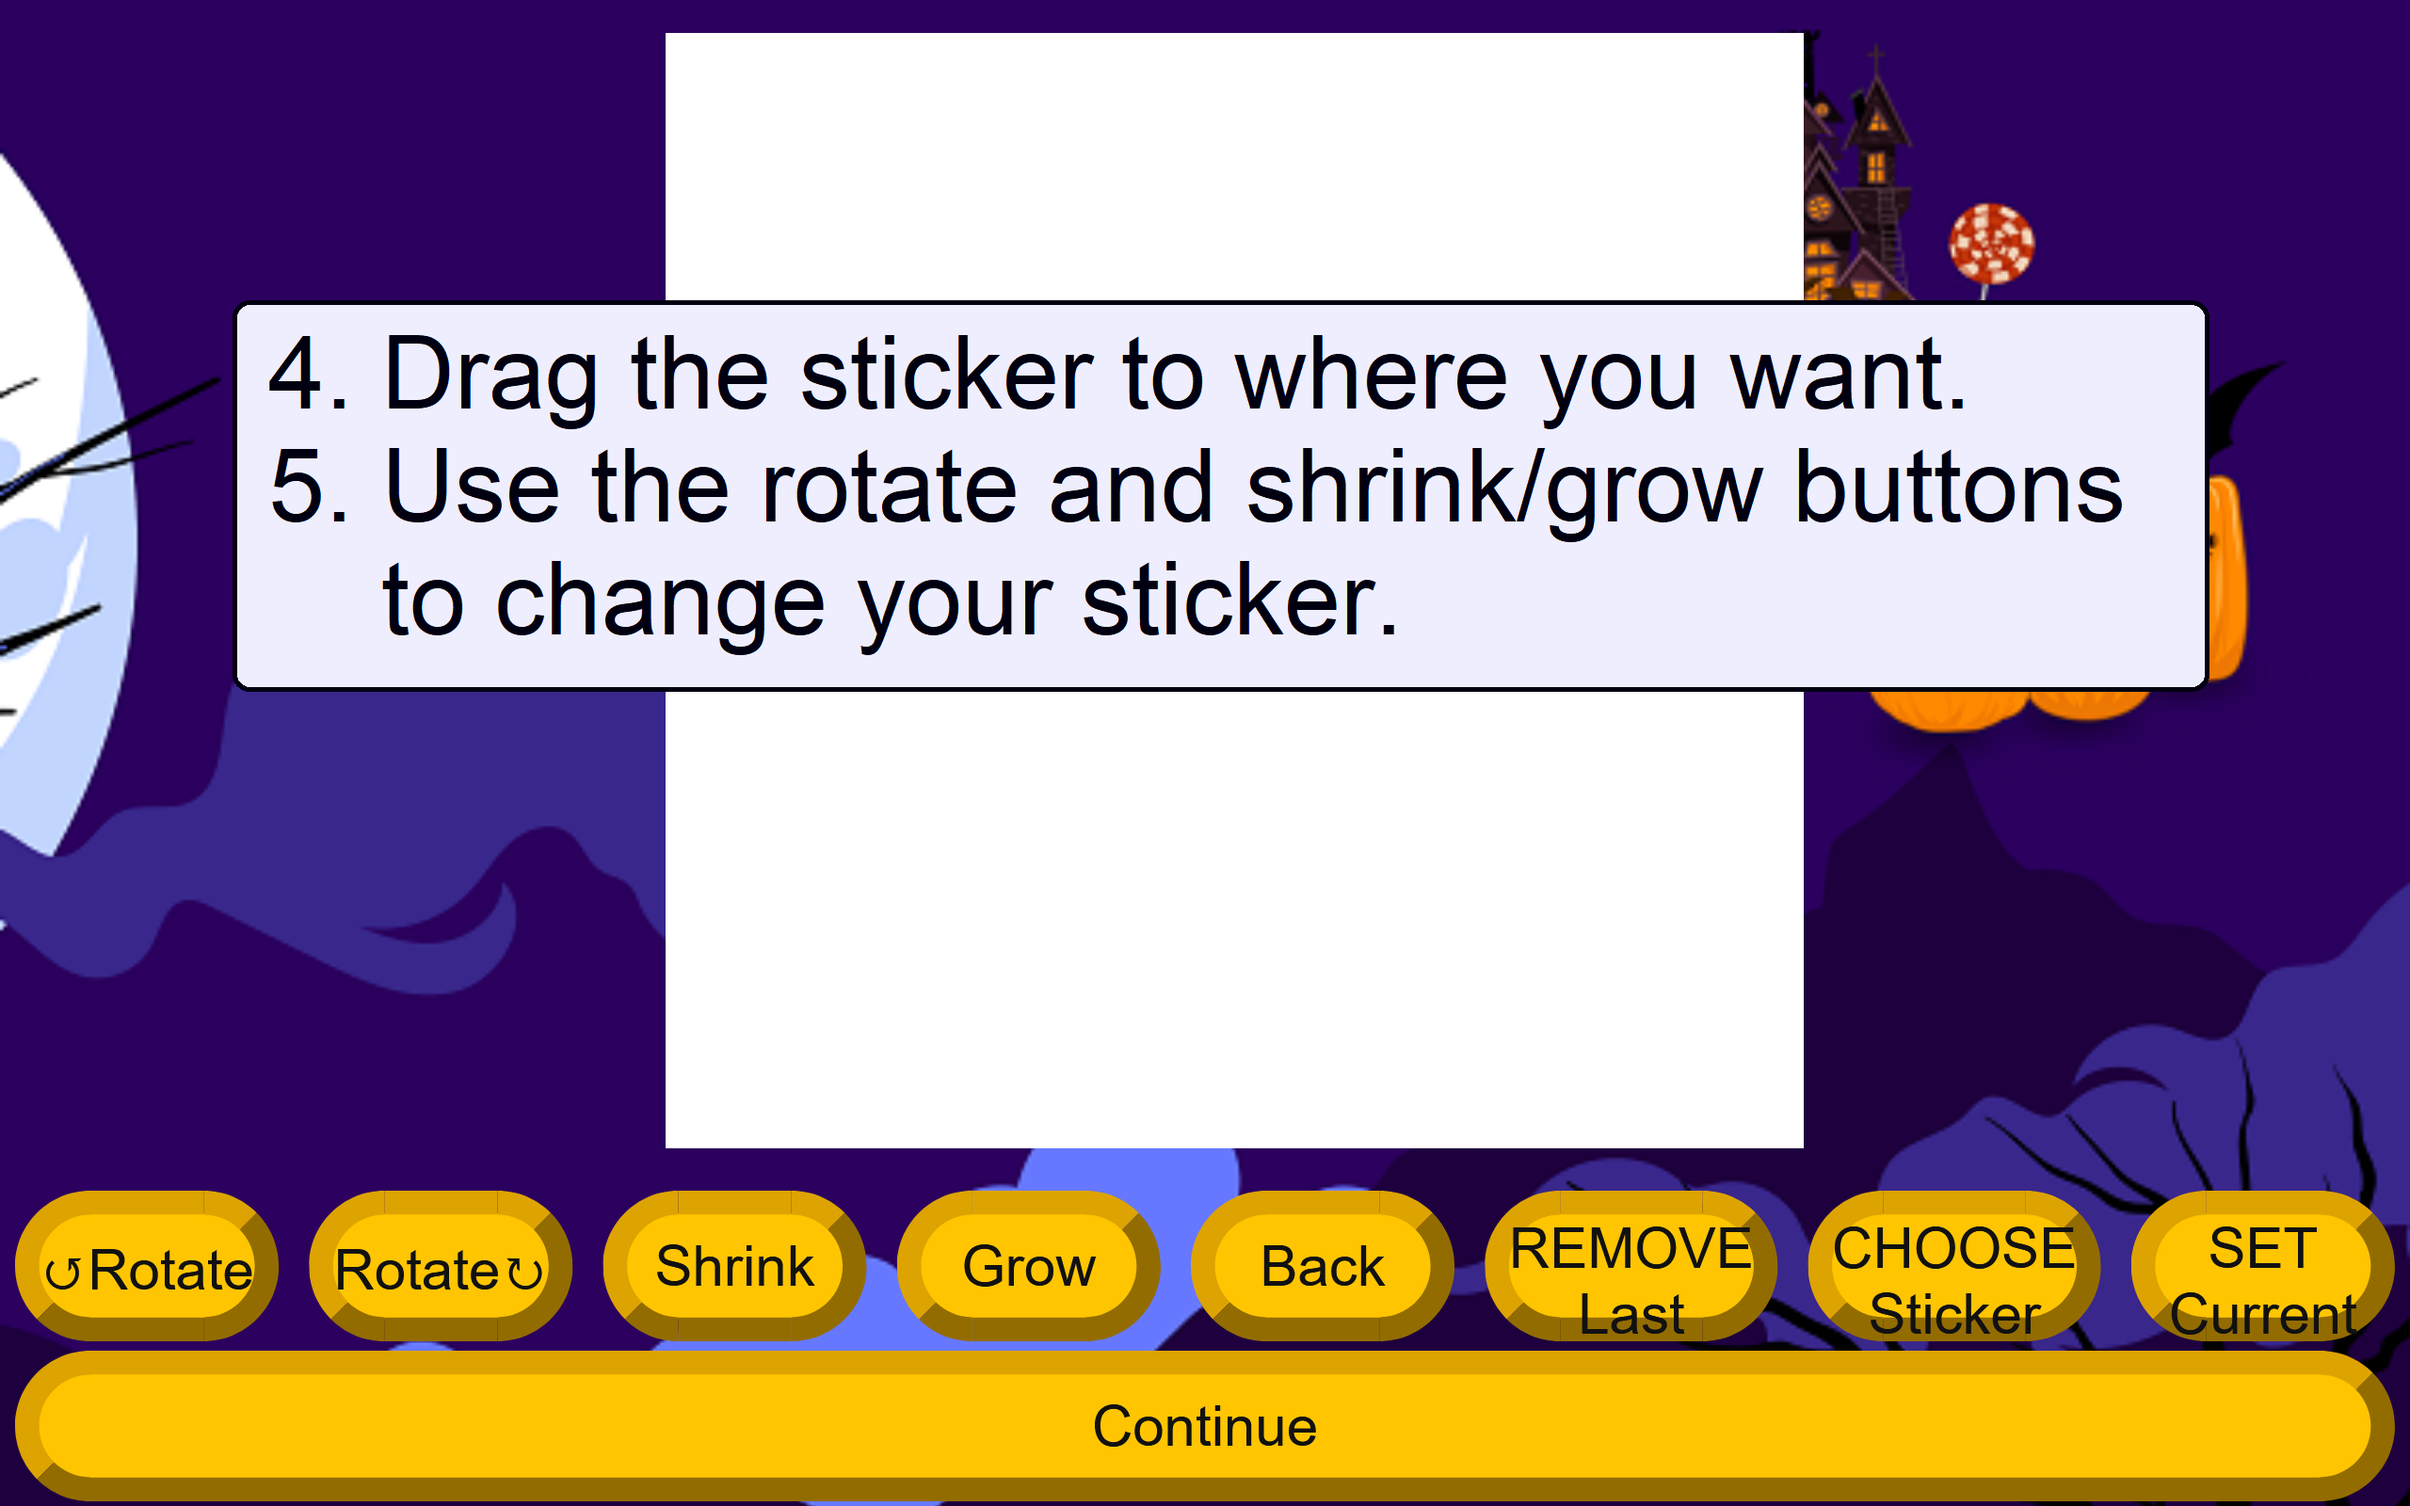
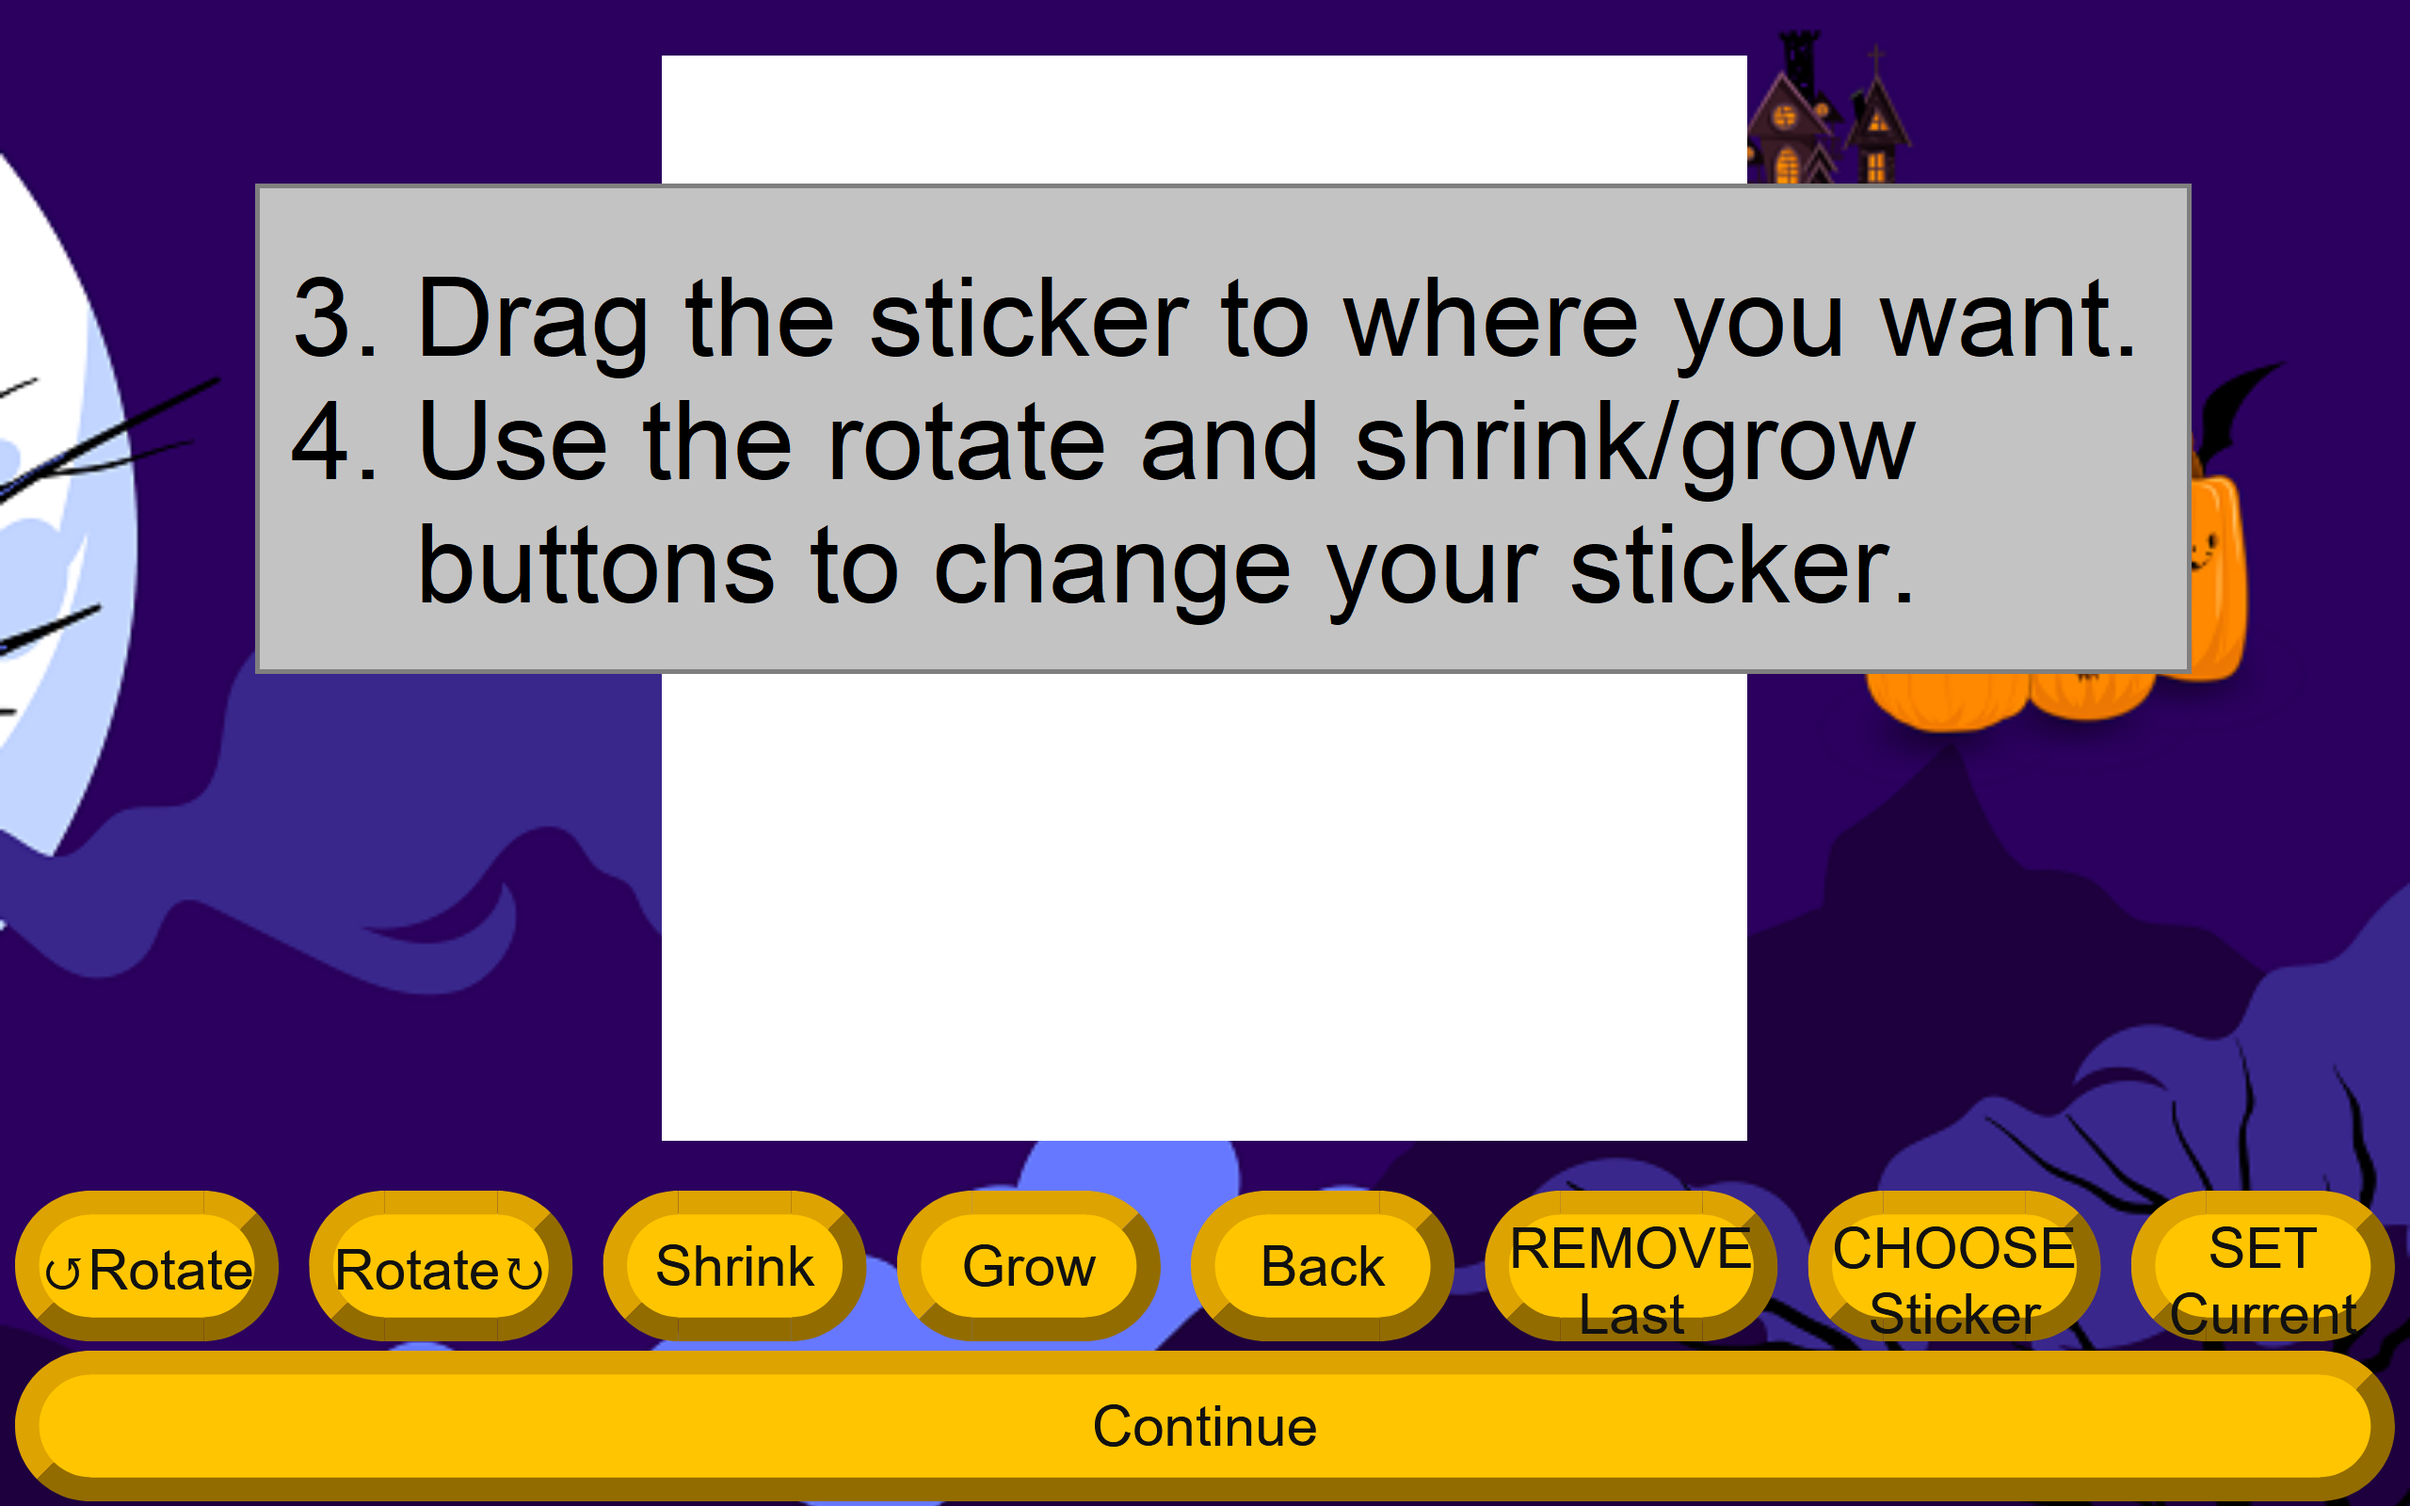
Added a set of simple revisions asked for.

Changed region(s): [[0.0938, 0.0, 0.9375, 0.7812]]

diff --git a/index.html b/index.html
@@ -44,21 +44,21 @@
 		<div id="wrapper">
 			<header>
 				<h1>Party Pics!</h1>
-				<p>Party Pics! A private virtual photo booth.<br>It's simple to use, just 1&hellip; 2&hellip; 3!</p>
+				<p>Party Pics! A private virtual photo booth.<br>It's as simple as can be!</p>
 				<ol>
 					<li>Choose a theme below.</li>
-					<li>Take a picture and follow through the guided steps.</li>
+					<li>Take a picture, select a frame, and place and set stickers.<br>(Open instructions below if you need help.)</li>
 					<li>And just download your picture!<br>(Remember to email Diana Cates <a href="mailto:diana.bond@gmail.com">{diana.bond@gmail.com}</a> a copy of your picture to add to her party pictures album. She will share a link of the album after the party so you can view and download each other's pictures!)</li>
 				</ol>
 			</header>
-			<details id="tutorial" open>
-				<summary>How To Use (Click Me To Close)</summary>
-				<img src="assets/images/tutorial/1.png" alt="start page">
-				<img src="assets/images/tutorial/2.png" alt="start page">
-				<img src="assets/images/tutorial/3.png" alt="start page">
-				<img src="assets/images/tutorial/4.png" alt="start page">
-				<img src="assets/images/tutorial/5.png" alt="start page">
-				<img src="assets/images/tutorial/6.png" alt="start page">
+			<details id="tutorial">
+				<summary>Instructions On How To Use (Click Me To Open/Close)</summary>
+				<img src="assets/images/tutorial/1.png" alt="1. frame selection">
+				<img src="assets/images/tutorial/2.png" alt="2. sticker choosing">
+				<img src="assets/images/tutorial/3.png" alt="3. sticker editing and setting">
+				<img src="assets/images/tutorial/4.png" alt='4. set "glues" the sticker to the page. repeat steps 2-to-5 to add more'>
+				<img src="assets/images/tutorial/5.png" alt='5. remove deletes the last "glued" sticker'>
+				<img src="assets/images/tutorial/6.png" alt="6. download and email to Diana Cates">
 			</details>
 			<content id="themes">
 				<article id="halloweenTwentyTwenty">

diff --git a/halloween-twenty-twenty/index.html b/halloween-twenty-twenty/index.html
@@ -43,7 +43,7 @@
 	</head>
 	<body>
 		<div id="startSection" class="section">
-			<button type="button" name="button" id="startStepper" class="section" onclick="stepper();">Start</button><button type="button" name="button" id="startReminder" disabled>(Don't forget to give to <a href="mailto:diana.bond@gmail.com">Diana Cates</a>!)</button>
+			<button type="button" name="button" id="startStepper" class="section" onclick="stepper();">Start</button>
 		</div>
 		<div id="videoSection" class="section">
 			<video autoplay id="video"></video><br>

diff --git a/kais-third-birthday/index.html b/kais-third-birthday/index.html
@@ -43,7 +43,7 @@
 	</head>
 	<body>
 		<div id="startSection" class="section">
-			<button type="button" name="button" id="startStepper" class="section" onclick="stepper();">Start</button><button type="button" name="button" id="startReminder" disabled>(Don't forget to give to <a href="mailto:diana.bond@gmail.com">Diana Cates</a>!)</button>
+			<button type="button" name="button" id="startStepper" class="section" onclick="stepper();">Start</button>
 		</div>
 		<div id="videoSection" class="section">
 			<video autoplay id="video"></video><br>
